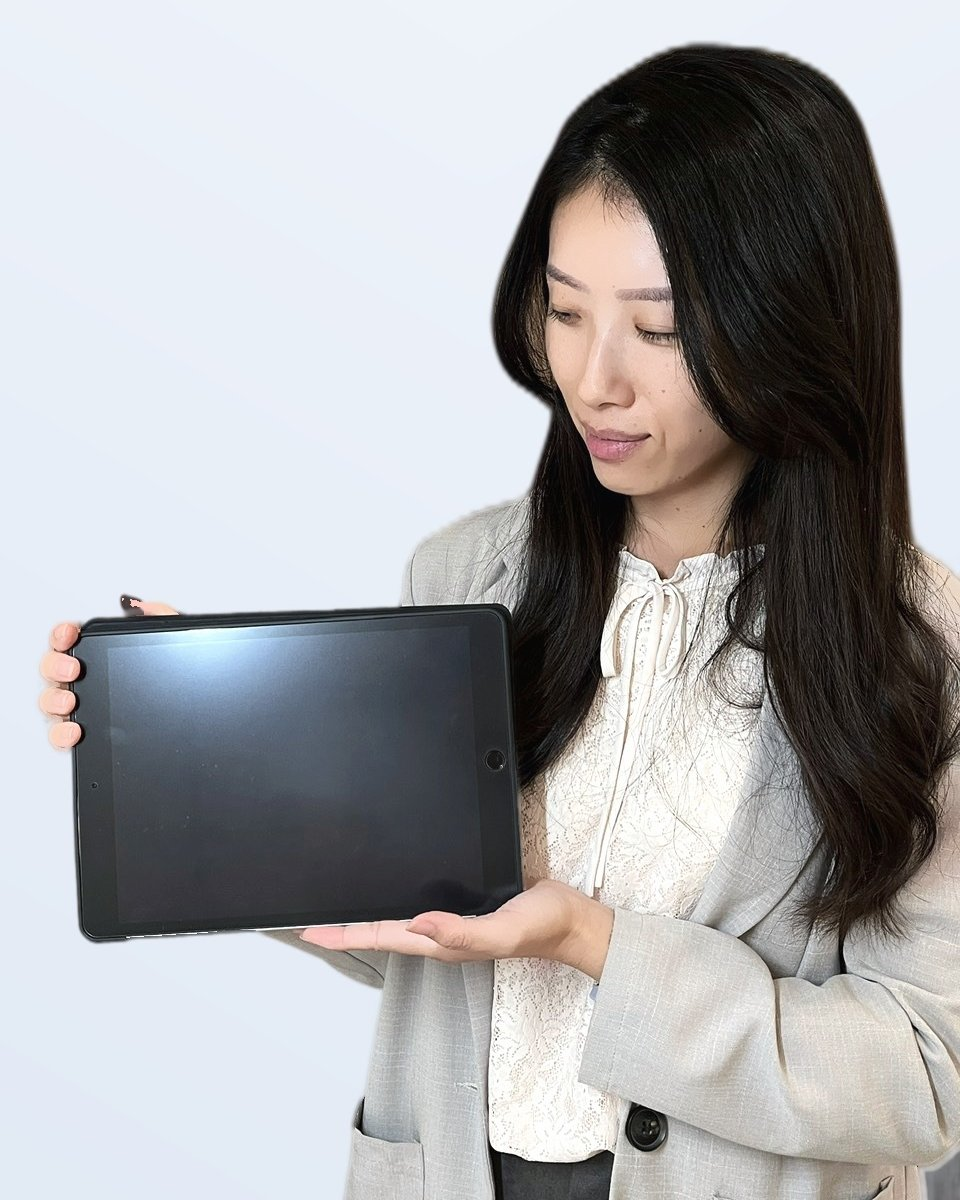
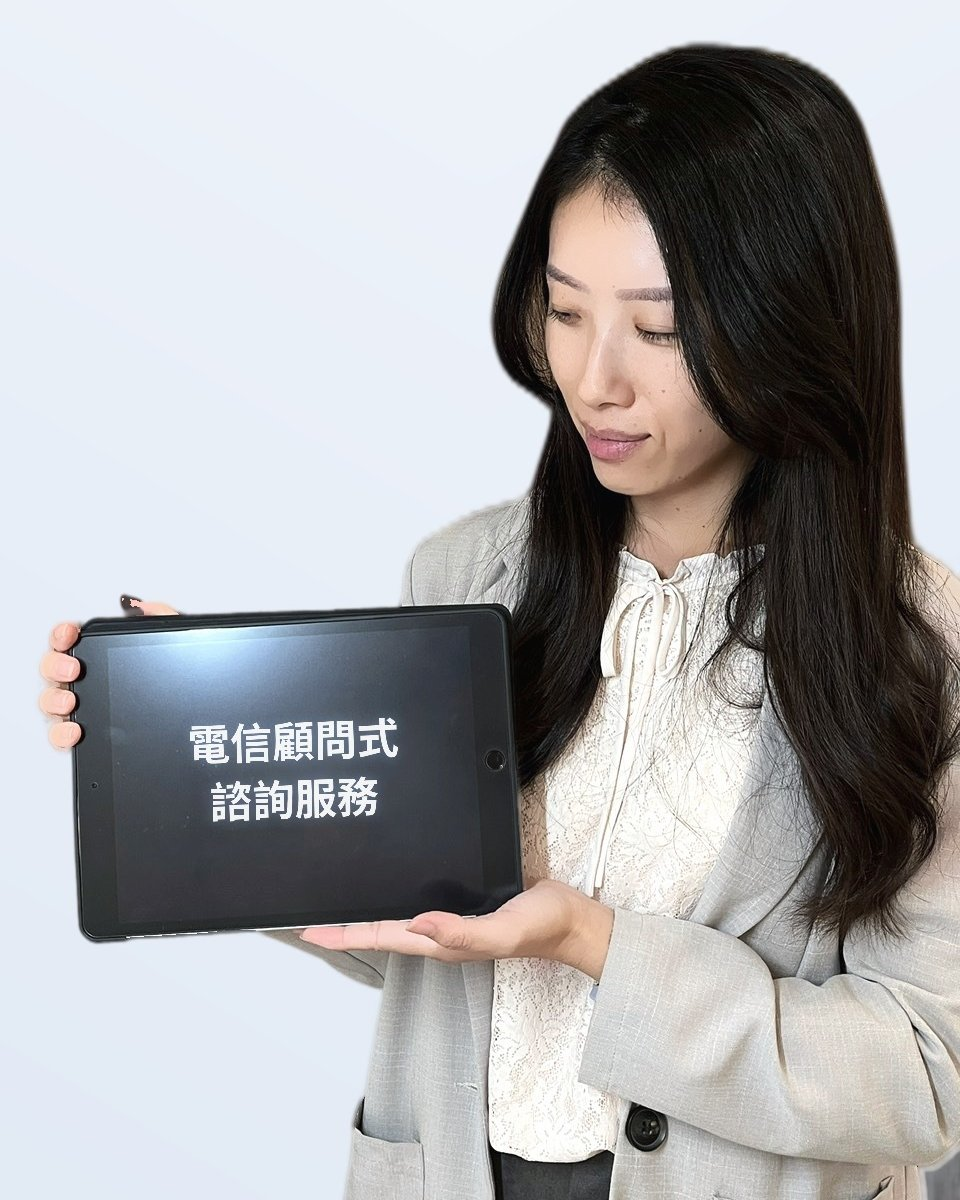
About: half-body crop; tablet screen text
Claude-Session: https://claude.ai/code/session_01JAiqQkqjuFdidntcxi5Rha

Changed region(s): [[0.1875, 0.5858, 0.4062, 0.7092]]

diff --git a/index.html b/index.html
@@ -245,7 +245,7 @@ footer p{margin:4px 0}
       <h2 class="section-title">重新設計人生的斜槓女孩</h2>
       <p class="lead">我相信每個人都不只有一種樣子。做喜歡的事、幫身邊的人把生活過得更省心，就是我的工作。</p>
       <div class="about-grid">
-        <div class="about-photo"><img src="images/about.jpg" alt="茶茶 劉芷廷全身形象照" width="960" height="1466" loading="lazy"></div>
+        <div class="about-photo"><img src="images/about.jpg" alt="茶茶 劉芷廷半身形象照" width="960" height="900" loading="lazy"></div>
         <div class="about-right">
         <div class="about-text">
           <p>以前的我是一名會計，每天和數字打交道。後來離開職場，我決定不再只選一條路，轉身成為自由工作者，把擅長的事一件件做成服務。</p>
